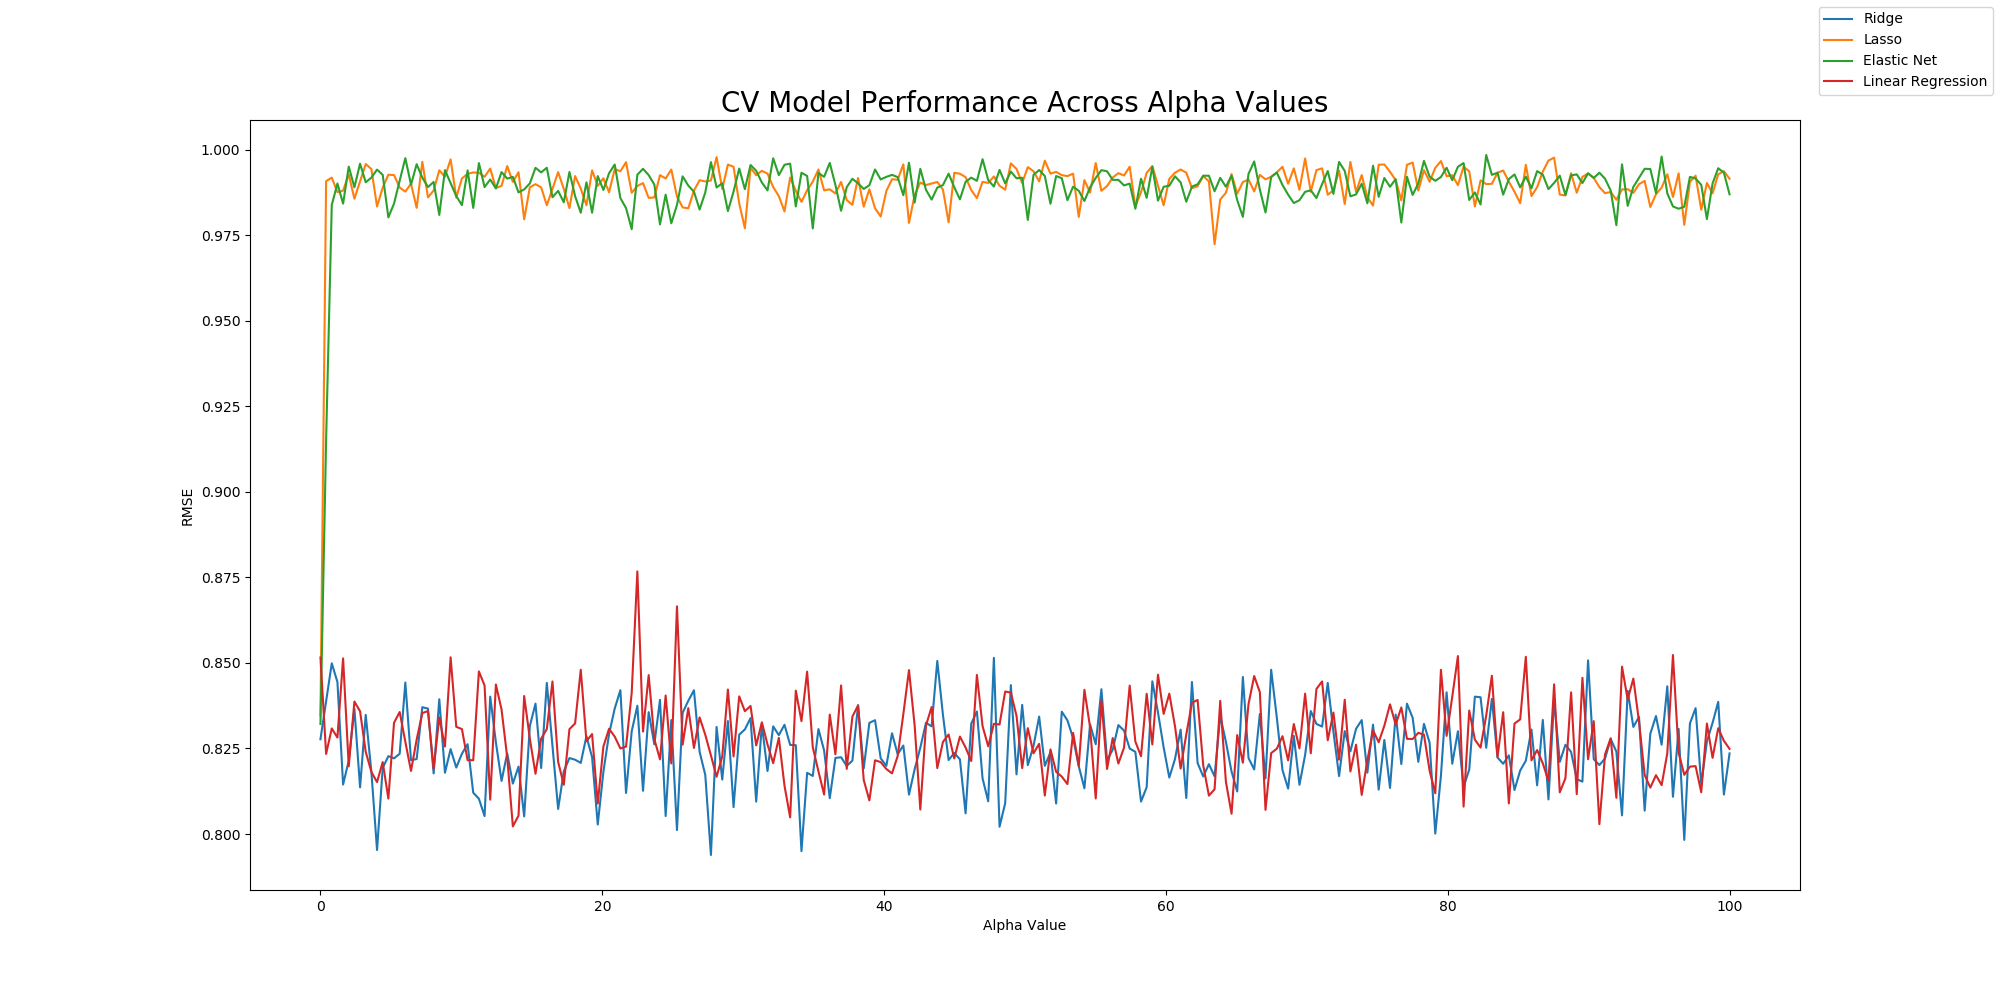
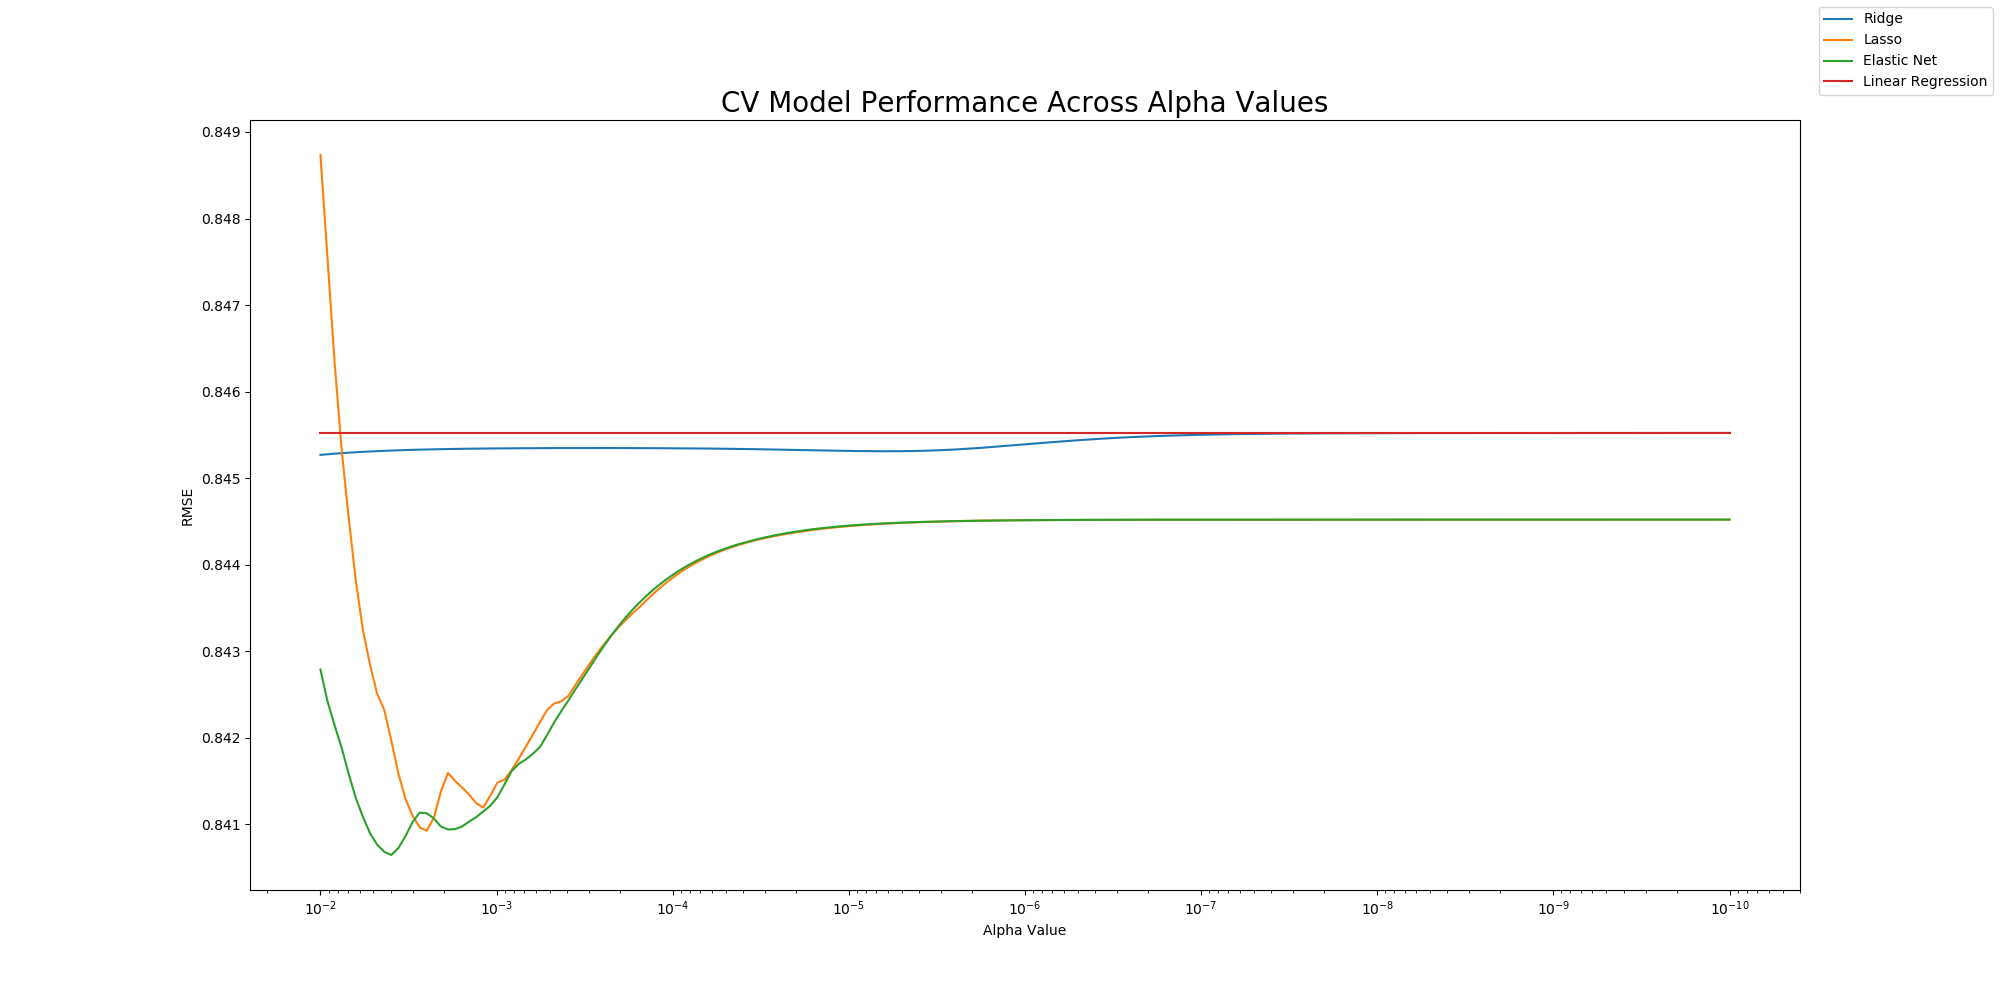
more images

diff --git a/src_dan/modeling.py b/src_dan/modeling.py
@@ -9,6 +9,7 @@ from sklearn import datasets
 from utils import XyScaler
 import os
 import matplotlib.pyplot as plt
+import random
 
 
  
@@ -28,7 +29,7 @@ class Modeling(object):
         self.y = df.iloc[:, self.y_index].to_numpy()
 
     def split_data(self):
-        self.X_train, self.X_test, self.y_train, self.y_test = train_test_split(self.X, self.y)
+        self.X_train, self.X_test, self.y_train, self.y_test = train_test_split(self.X, self.y, random_state = 4)
 
 
     def standardize(self):
@@ -83,7 +84,7 @@ if __name__ == '__main__':
     alphas = np.logspace(-10, -2, n_alphas)
     coefs = []
     for alpha in alphas:
-        modeler = Modeling(df, 6, 8, Ridge(alpha = alpha), 10)
+        modeler = Modeling(df, 6, 8, ElasticNet(alpha = alpha), 10)
         modeler.df_to_x_y()
         modeler.split_data()
         modeler.standardize()
@@ -102,10 +103,10 @@ if __name__ == '__main__':
     ax.set_xlim(ax.get_xlim()[::-1])  # reverse axis
     plt.xlabel('alpha')
     plt.ylabel('weights')
-    plt.title('Ridge coefficients as a function of the regularization', fontsize = 20)
+    plt.title('Elastic Net coefficients as a function of the regularization', fontsize = 20)
     plt.axis('tight')
     plt.legend()
-    fig.savefig('ridge_coefs.png')
+    fig.savefig('elastic_net_coefs.png')
     plt.show()
 
 
@@ -134,15 +135,19 @@ if __name__ == '__main__':
     #     modeler.df_to_x_y()
     #     modeler.split_data()
     #     modeler.standardize()
+    #     modeler.fit()
     #     modeler1.df_to_x_y()
     #     modeler1.split_data()
     #     modeler1.standardize()
+    #     modeler1.fit()
     #     modeler2.df_to_x_y()
     #     modeler2.split_data()
     #     modeler2.standardize()
+    #     modeler2.fit()
     #     modeler3.df_to_x_y()
     #     modeler3.split_data()
     #     modeler3.standardize()
+    #     modeler3.fit()
     #     # modeler.fit()
     #     # error = modeler.predict()
     #     error = modeler.cross_val_score()
@@ -160,7 +165,9 @@ if __name__ == '__main__':
     # ax.plot(alphas, errors1, label = 'Lasso')
     # ax.plot(alphas, errors2, label = 'Elastic Net')
     # ax.plot(alphas, errors3, label = 'Linear Regression')
-    # ax.set_title('CV Model Performance Across Alpha Values', size =)
+    # ax.set_xscale('log')
+    # ax.set_xlim(ax.get_xlim()[::-1])  # reverse axis
+    # ax.set_title('CV Model Performance Across Alpha Values', size = 20)
     # ax.set_xlabel('Alpha Value')
     # ax.set_ylabel('RMSE')
     # fig.legend()
